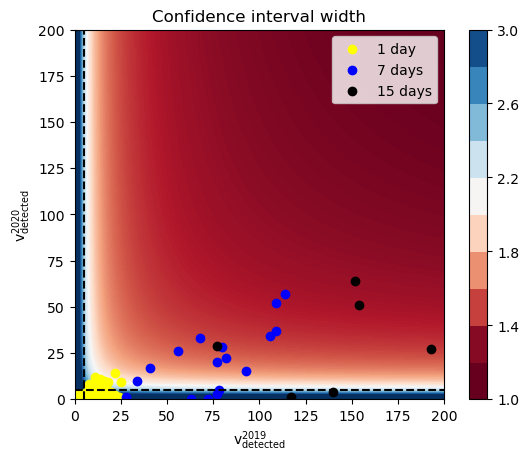
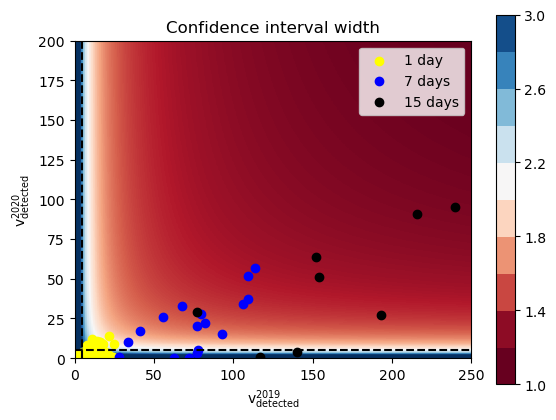
Graph modified

diff --git a/figures/width_2019_2021.tex b/figures/width_2019_2021.tex
@@ -7,7 +7,7 @@
 
 \begin{axis}[
 colorbar,
-colorbar style={ytick={1.2165225239646,1.57321801917168,1.92991351437876,2.28660900958584,2.64330450479292,3},yticklabels={1.0,1.4,1.8,2.2,2.6,3.0},ylabel={}},
+colorbar style={ytick={1.20434820235806,1.56347856188645,1.92260892141484,2.28173928094323,2.64086964047161,3},yticklabels={1.0,1.4,1.8,2.2,2.6,3.0},ylabel={}},
 colormap={mymap}{[1pt]
   rgb(0pt)=(0.403921568627451,0,0.12156862745098);
   rgb(1pt)=(0.698039215686274,0.0941176470588235,0.168627450980392);
@@ -22,22 +22,29 @@ colormap={mymap}{[1pt]
   rgb(10pt)=(0.0196078431372549,0.188235294117647,0.380392156862745)
 },
 legend cell align={left},
-legend style={fill opacity=0.8, draw opacity=1, text opacity=1, draw=lightgray204},
+legend style={
+  fill opacity=0.8,
+  draw opacity=1,
+  text opacity=1,
+  at={(0.91,0.5)},
+  anchor=east,
+  draw=lightgray204
+},
 point meta max=3,
-point meta min=1.2165225239646,
+point meta min=1.20434820235806,
 tick align=outside,
 tick pos=left,
 title={Confidence interval width},
 x grid style={darkgray176},
 xlabel={\(\displaystyle \mathrm{v}_{\mathrm{detected}}^{2019}\)},
-xmin=0, xmax=200,
+xmin=0, xmax=250,
 xtick style={color=black},
 y grid style={darkgray176},
 ylabel={\(\displaystyle \mathrm{v}_{\mathrm{detected}}^{2021}\)},
 ymin=0, ymax=200,
 ytick style={color=black}
 ]
-\addplot graphics [includegraphics cmd=\pgfimage,xmin=0, xmax=200, ymin=0, ymax=200] {width_2019_2021-000.png};
+\addplot graphics [includegraphics cmd=\pgfimage,xmin=0, xmax=250, ymin=0, ymax=200] {width_2019_2021-000.png};
 \addplot [draw=yellow, fill=yellow, mark=*, only marks]
 table{%
 x  y
@@ -203,7 +210,7 @@ x  y
 \addplot [semithick, black, dashed, forget plot]
 table {%
 0 5
-200 5
+250 5
 };
 \addplot [semithick, black, dashed, forget plot]
 table {%

diff --git a/figures/width_2019_2020.tex b/figures/width_2019_2020.tex
@@ -7,7 +7,7 @@
 
 \begin{axis}[
 colorbar,
-colorbar style={ytick={1.2165225239646,1.57321801917168,1.92991351437876,2.28660900958584,2.64330450479292,3},yticklabels={1.0,1.4,1.8,2.2,2.6,3.0},ylabel={}},
+colorbar style={ytick={1.20434820235806,1.56347856188645,1.92260892141484,2.28173928094323,2.64086964047161,3},yticklabels={1.0,1.4,1.8,2.2,2.6,3.0},ylabel={}},
 colormap={mymap}{[1pt]
   rgb(0pt)=(0.403921568627451,0,0.12156862745098);
   rgb(1pt)=(0.698039215686274,0.0941176470588235,0.168627450980392);
@@ -24,20 +24,20 @@ colormap={mymap}{[1pt]
 legend cell align={left},
 legend style={fill opacity=0.8, draw opacity=1, text opacity=1, draw=lightgray204},
 point meta max=3,
-point meta min=1.2165225239646,
+point meta min=1.20434820235806,
 tick align=outside,
 tick pos=left,
 title={Confidence interval width},
 x grid style={darkgray176},
 xlabel={\(\displaystyle \mathrm{v}_{\mathrm{detected}}^{2019}\)},
-xmin=0, xmax=200,
+xmin=0, xmax=250,
 xtick style={color=black},
 y grid style={darkgray176},
 ylabel={\(\displaystyle \mathrm{v}_{\mathrm{detected}}^{2020}\)},
 ymin=0, ymax=200,
 ytick style={color=black}
 ]
-\addplot graphics [includegraphics cmd=\pgfimage,xmin=0, xmax=200, ymin=0, ymax=200] {width_2019_2020-000.png};
+\addplot graphics [includegraphics cmd=\pgfimage,xmin=0, xmax=250, ymin=0, ymax=200] {width_2019_2020-000.png};
 \addplot [draw=yellow, fill=yellow, mark=*, only marks]
 table{%
 x  y
@@ -203,7 +203,7 @@ x  y
 \addplot [semithick, black, dashed, forget plot]
 table {%
 0 5
-200 5
+250 5
 };
 \addplot [semithick, black, dashed, forget plot]
 table {%

diff --git a/notebooks/main.py b/notebooks/main.py
@@ -104,11 +104,12 @@ df.to_csv(os.path.join('figures', 'reliability2.csv'), index=False)
 ## Plot the width figure
 month1 = 6
 month2 = 9
-x_max = 200
+x_max = 250
+y_max = 200
 cs = ['yellow', 'blue', 'black']
 
-v1s = np.arange(1, 201, 1)
-v2s = np.arange(1, 201, 1)
+v1s = np.arange(1, x_max+1, 1)
+v2s = np.arange(1, y_max+1, 1)
 
 p1 = p2 = 1e-4
 m2 = np.zeros((len(v1s), len(v2s)))
@@ -126,7 +127,7 @@ for (year1, year2) in zip((2019, 2019), (2020, 2021)):
     )
 
     plt.plot([0, x_max], [5, 5], c='black', linestyle='dashed')
-    plt.plot([5, 5], [0, x_max], c='black', linestyle='dashed')
+    plt.plot([5, 5], [0, y_max], c='black', linestyle='dashed')
 
     for i, n_aggr in enumerate([1, 7, 15]):
         entries, arrivals, years, months = get_entries(data, **kwargs)
@@ -144,7 +145,7 @@ for (year1, year2) in zip((2019, 2019), (2020, 2021)):
         plt.scatter(x1, x2, c=cs[i], label=label_name)
 
     plt.xlim([0, x_max])
-    plt.ylim([0, x_max])
+    plt.ylim([0, y_max])
     plt.legend()
     tikzplotlib.save(os.path.join('figures', 'width_%d_%d.tex' % (year1, year2)))
     plt.savefig(os.path.join('figures', 'width_%d_%d.png' % (year1, year2)), bbox_inches='tight')
